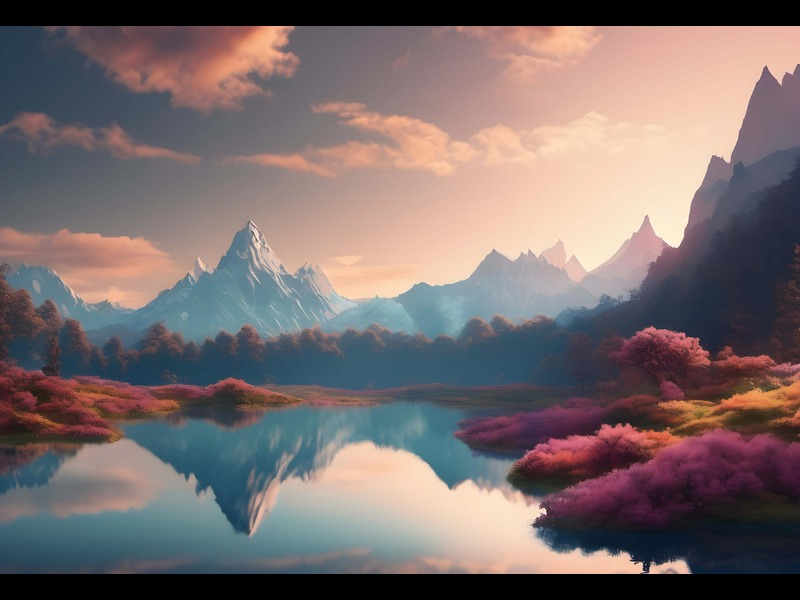
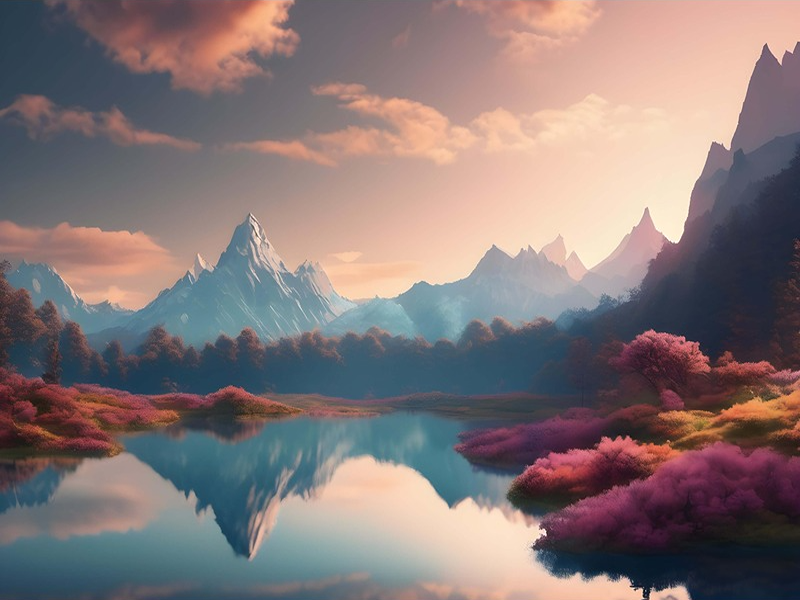
save

diff --git a/main.py b/main.py
@@ -9,6 +9,7 @@ mydb = mysql.connector.connect(
   password="password",
   database="user_info"
 )
+mycursor = mydb.cursor()
 
 pygame.init()
 
@@ -58,22 +59,22 @@ def welcome_screen():
     user_auth_menu()
 
 def user_auth_menu():
+    register_button = Button(base_image=pygame.image.load("assets/buttons/RegisterRectUp.png"), pos=(SCREEN_WIDTH//2, 230), 
+                        hovering_image=pygame.image.load("assets/buttons/RegisterRectDown.png"))
+        
+    login_button = Button(base_image=pygame.image.load("assets/buttons/LoginRectUp.png"), pos=(SCREEN_WIDTH//2, 330), 
+                        hovering_image=pygame.image.load("assets/buttons/LoginRectDown.png"))
+        
+    quit_button = Button(base_image=pygame.image.load("assets/buttons/QuitRectUp.png"), pos=(SCREEN_WIDTH//2, 430), 
+                        hovering_image=pygame.image.load("assets/buttons/QuitRectDown.png"))
     while True:
         screen.blit(login_bg, (0, 0))
-        screen.blit(title, title.get_rect(center=(SCREEN_WIDTH//2, 110)))
+        screen.blit(title, title.get_rect(center=(SCREEN_WIDTH//2, 80)))
 
         mouse_pos = pygame.mouse.get_pos()
+        buttons = [register_button, login_button, quit_button]
 
-        register_button = Button(base_image=pygame.image.load("assets/buttons/RegisterRectUp.png"), pos=(SCREEN_WIDTH//2, 250), 
-                            hovering_image=pygame.image.load("assets/buttons/RegisterRectDown.png"))
-        
-        login_button = Button(base_image=pygame.image.load("assets/buttons/LoginRectUp.png"), pos=(SCREEN_WIDTH//2, 340), 
-                            hovering_image=pygame.image.load("assets/buttons/LoginRectDown.png"))
-        
-        quit_button = Button(base_image=pygame.image.load("assets/buttons/QuitRectUp.png"), pos=(SCREEN_WIDTH//2, 430), 
-                            hovering_image=pygame.image.load("assets/buttons/QuitRectDown.png"))
-
-        for button in [register_button, login_button, quit_button]:
+        for button in buttons:
             button.changeImage(mouse_pos)
             button.update(screen)
         
@@ -93,28 +94,43 @@ def user_auth_menu():
         pygame.display.update()
 
 def registration_menu():
-    username_box = InputBox(image = pygame.image.load("assets/InputBox.png"), pos=(SCREEN_WIDTH//2, 250), placeholder='Username', screen_width=SCREEN_WIDTH, screen_height=SCREEN_HEIGHT)
+    username_box = InputBox(image = pygame.image.load("assets/InputBox.png"), pos=(SCREEN_WIDTH//2, 210), placeholder='Username', screen_width=SCREEN_WIDTH, screen_height=SCREEN_HEIGHT)
+    password_box = InputBox(image = pygame.image.load("assets/InputBox.png"), pos=(SCREEN_WIDTH//2, 300), placeholder='Password', screen_width=SCREEN_WIDTH, screen_height=SCREEN_HEIGHT, hidden=True)
+    repeat_password_box = InputBox(image = pygame.image.load("assets/InputBox.png"), pos=(SCREEN_WIDTH//2, 390), placeholder='Repeat Password', screen_width=SCREEN_WIDTH, screen_height=SCREEN_HEIGHT, hidden=True)
+
+    proceed_button = Button(base_image=pygame.image.load("assets/buttons/ProceedRectUp.png"), pos=(SCREEN_WIDTH//2, 500), 
+                        hovering_image=pygame.image.load("assets/buttons/ProceedRectDown.png"))
+    home_button = Button(base_image=pygame.image.load("assets/buttons/HomeRectUp.png"), pos=(70, 70), 
+                        hovering_image=pygame.image.load("assets/buttons/HomeRectDown.png"))
+    
 
     while True:
         screen.blit(login_bg, (0, 0))
-        screen.blit(title, title.get_rect(center=(SCREEN_WIDTH//2, 110)))
+        screen.blit(title, title.get_rect(center=(SCREEN_WIDTH//2, 80)))
 
-    
+        mouse_pos = pygame.mouse.get_pos()
+        input_boxes = [username_box, password_box, repeat_password_box]
+        buttons = [proceed_button, home_button]
+        
+        for button in buttons:
+            button.changeImage(mouse_pos)
+            button.update(screen)
 
-        input_boxes = [username_box]
-
+        for box in input_boxes:
+            box.draw(screen)
 
         for event in pygame.event.get():
             if event.type == pygame.QUIT:
                 pygame.quit()
                 sys.exit()
-            username_box.handle_event(screen, event)
-        
-       # for box in input_boxes:
-        #    box.update()
-            
-        
-        username_box.draw(screen)
+            for box in input_boxes:
+                box.handle_event(event)
+            if event.type == pygame.MOUSEBUTTONDOWN:
+                if home_button.checkForInput(mouse_pos):
+                    user_auth_menu()
+                if proceed_button.checkForInput(mouse_pos):
+                    if username_box.return_text == mycursor.execute("SELECT username FROM users").fetchall():
+                        break
             
         pygame.display.update()
 

diff --git a/input_box.py b/input_box.py
@@ -2,21 +2,26 @@ import pygame, time
 
 class InputBox:
     
-    def __init__(self, image, pos, placeholder = '', screen_width = 0, screen_height= 0):
+    def __init__(self, image, pos, placeholder = '', screen_width = 0, screen_height= 0, hidden=False):
         self.image = image
-        self.color = pygame.Color('azure2')
+        self.color = pygame.Color('azure3')
         self.text = ''
         self.x_pos = pos[0]
         self.y_pos = pos[1]
+        self.hidden = hidden
+        self.dot_text = ''
         self.screen_width = screen_width
         self.screen_height = screen_height
-        self.txt_surface = pygame.font.Font("assets/ChangaOne-Regular.ttf", 28).render(self.text, True, self.color)
+        if self.hidden == False:
+            self.txt_surface = pygame.font.Font("assets/ChangaOne-Regular.ttf", 28).render(self.text, True, self.color)
+        else:
+            self.txt_surface = pygame.font.Font("assets/ChangaOne-Regular.ttf", 28).render(self.dot_text, True, self.color)
         self.rect = self.image.get_rect(center=(self.x_pos, self.y_pos))
         self.active = False
         self.placeholder_surface = pygame.font.Font("assets/ChangaOne-Regular.ttf", 28).render(placeholder, True, self.color)
         self.cursor = pygame.Rect(self.rect.topright, (3, self.rect.height-55))        
 
-    def handle_event(self, screen, event):
+    def handle_event(self, event):
         if event.type == pygame.MOUSEBUTTONDOWN:
             # If the user clicked on the input_box rect
             if not self.rect.collidepoint(event.pos):
@@ -29,15 +34,16 @@ class InputBox:
         if event.type == pygame.KEYDOWN and self.active:
             if event.key == pygame.K_BACKSPACE:
                 self.text = self.text[:-1]
+                self.dot_text = self.dot_text[:-1]
             else:
-                if self.txt_surface.get_width() > self.rect.x - 35:
-                    limit_text = pygame.font.Font("assets/ChangaOne-Regular.ttf", 16).render("Character Limit Reached", True, color='red')
-                    screen.blit(limit_text,(100,100))
-                    print("print")
-                else:
+                if self.txt_surface.get_width() < self.rect.x - 35:
                     self.text += event.unicode
+                    self.dot_text += '·'
              # Re-render the text
+        if self.hidden == False:
             self.txt_surface = pygame.font.Font("assets/ChangaOne-Regular.ttf", 28).render(self.text, True, self.color)
+        else:
+            self.txt_surface = pygame.font.Font("assets/ChangaOne-Regular.ttf", 28).render(self.dot_text, True, self.color)
 
     def draw(self, screen):
         # Blit the rect.
@@ -52,4 +58,6 @@ class InputBox:
                 text_rect = self.txt_surface.get_rect(topleft = (self.rect.x + 12, self.rect.y + 26))
                 self.cursor.midleft = text_rect.midright
                 pygame.draw.rect(screen, self.color, self.cursor)
-
+    
+    def return_text(self):
+        return self.text
